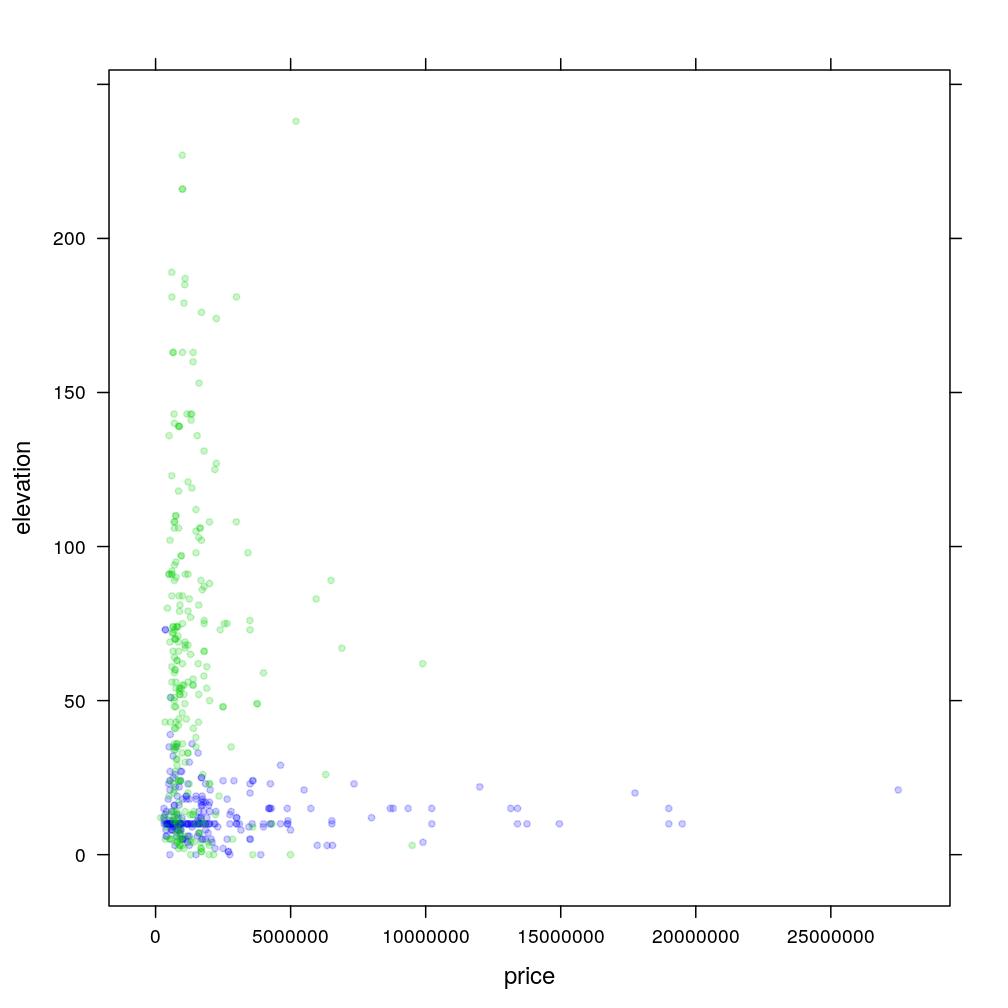
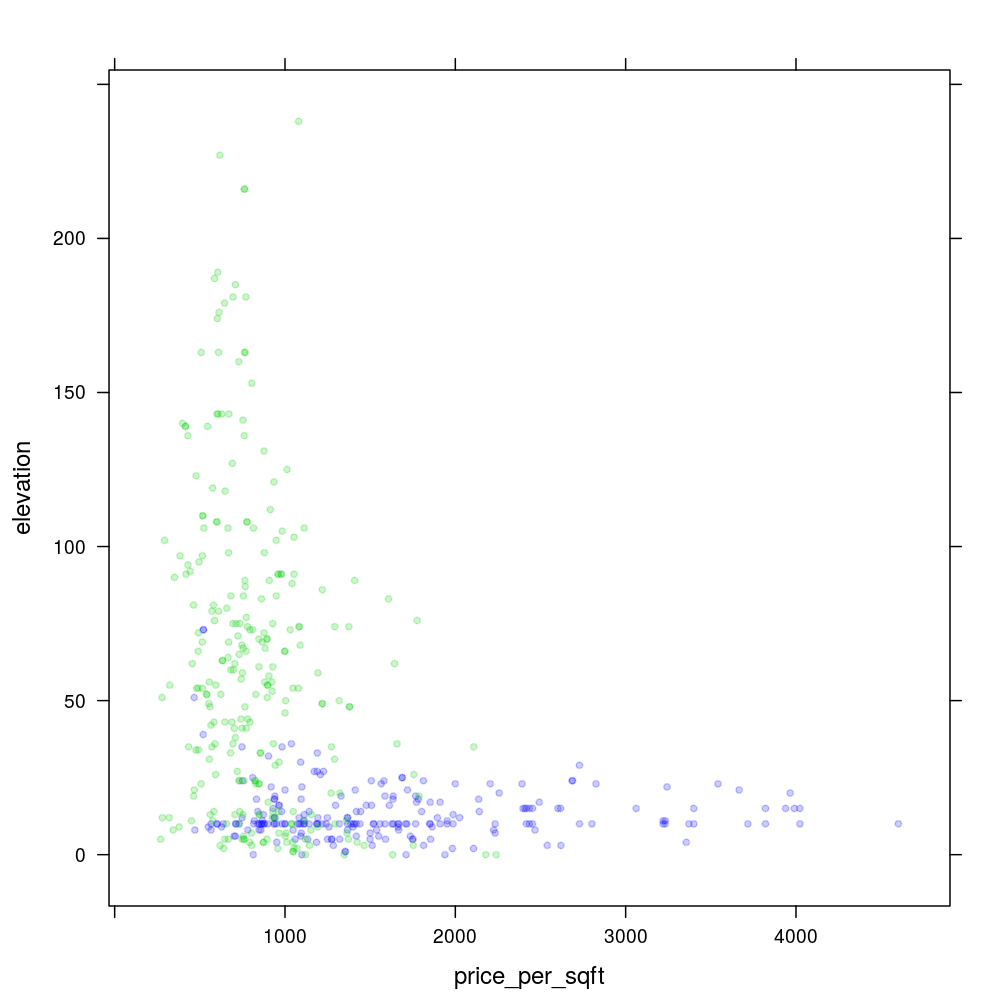
External figures

diff --git a/_posts/2017-10-17-classification.md b/_posts/2017-10-17-classification.md
@@ -7,6 +7,10 @@ Rdir: "/R/2017-10-17-classification/"
 
 Hello, World!
 
+## Data
+
+We are going to use the home data from [A visual introduction to machine learning](http://www.r2d3.us/visual-intro-to-machine-learning-part-1/)
+
 
 ```r
 library(lattice)
@@ -48,7 +52,7 @@ densityplot(~ elevation | city, data = home, groups = city, plot.points = "rug",
 <img src="{{ site.baseurl }}/R/2017-10-17-classification/figure/unnamed-chunk-4-1.png" title="plot of chunk unnamed-chunk-4" alt="plot of chunk unnamed-chunk-4" width="700px" />
 
 ```r
-xyplot(elevation ~ price, data = home, groups = city, col = my.col)
+xyplot(elevation ~ price_per_sqft, data = home, groups = city, col = my.col)
 ```
 
 <img src="{{ site.baseurl }}/R/2017-10-17-classification/figure/unnamed-chunk-4-2.png" title="plot of chunk unnamed-chunk-4" alt="plot of chunk unnamed-chunk-4" width="700px" />
@@ -59,5 +63,9 @@ splom(~ home[3:9], data = home, groups = city, auto.key = TRUE, pscales = 0)
 ```
 
 <img src="{{ site.baseurl }}/R/2017-10-17-classification/figure/unnamed-chunk-5-1.png" title="plot of chunk unnamed-chunk-5" alt="plot of chunk unnamed-chunk-5" width="700px" />
+
+## CART: Classification And Regression Tree (Decision Tree)
+
+![Fig]({{ site.baseurl }}/figures/elements-stats-learning-fig-9.2.jpg)
 <!-- MathJax scripts -->
 <script type="text/javascript" src="https://cdn.mathjax.org/mathjax/latest/MathJax.js?config=TeX-AMS-MML_HTMLorMML"></script>
